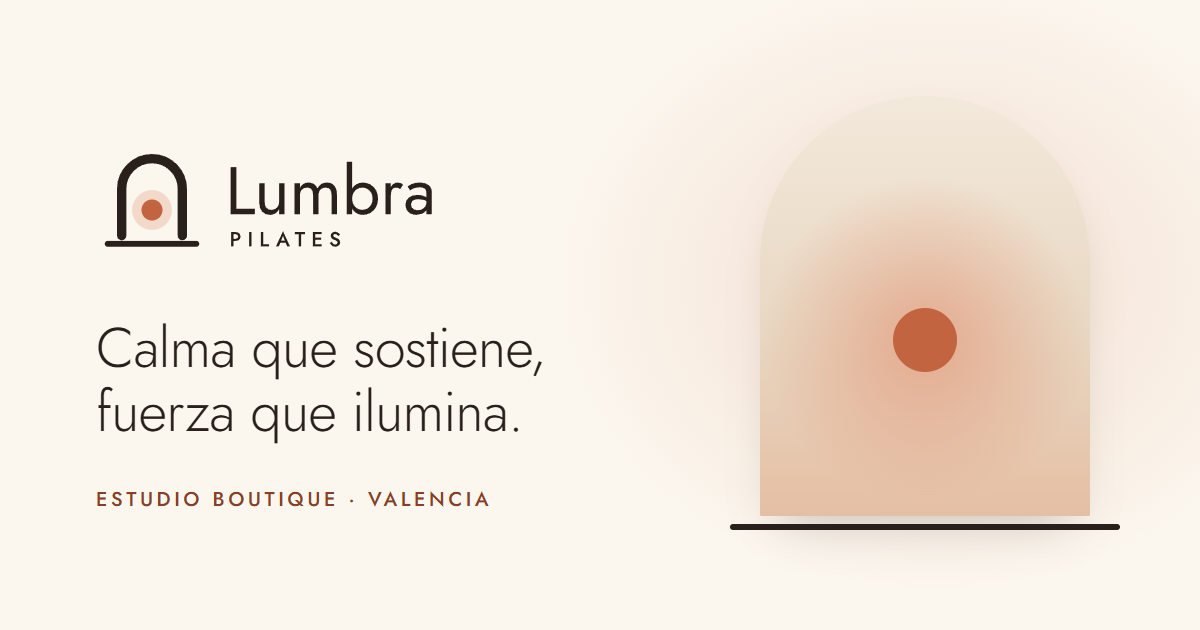
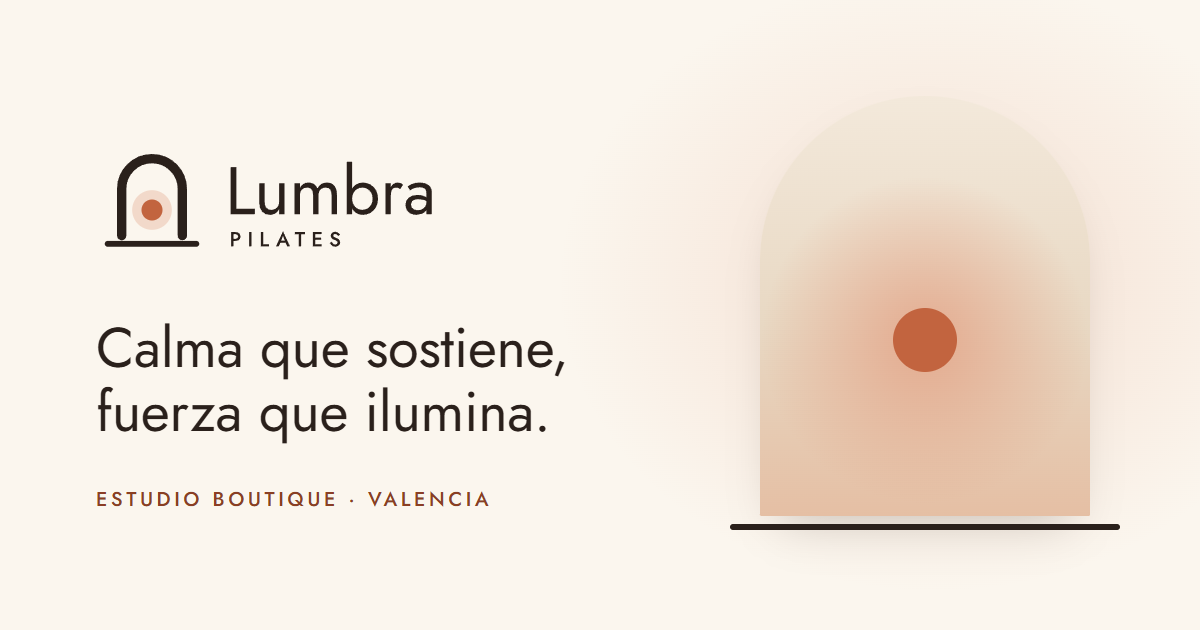
style: titulares en Jost 400

Changed region(s): [[0.0617, 0.5127, 0.4933, 0.6937]]

diff --git a/src/features/public/home/Hero.tsx b/src/features/public/home/Hero.tsx
@@ -31,7 +31,7 @@ function NextClassCard({ state }: { state: HomeState }) {
             {firstDay.relation === 'hoy' ? 'Próxima clase hoy' : `Próxima clase${SEP}${dayHeading(firstDay)}`}
           </p>
           <p className="mt-3 flex flex-wrap items-baseline gap-x-3">
-            <span className="text-3xl font-light">{formatTime(next.startsAt)}</span>
+            <span className="text-3xl">{formatTime(next.startsAt)}</span>
             <span className="font-medium">{next.name}</span>
           </p>
           <p className="mt-1 flex flex-wrap items-center gap-x-3 gap-y-1 text-sm text-piedra">
@@ -60,11 +60,22 @@ function NextClassCard({ state }: { state: HomeState }) {
           </div>
         </>
       ) : (
-        <div role="status" className="flex flex-col gap-3">
+        // Mismo ritmo que la tarjeta con datos (etiqueta, hora, datos y fila de 44 px) para que no salte al cargar.
+        <div role="status">
           <span className="sr-only">Cargando la próxima clase…</span>
-          <Skeleton className="h-4 w-32" />
-          <Skeleton className="h-8 w-44" />
-          <Skeleton className="h-4 w-40" />
+          <div className="flex h-[1.1rem] items-center">
+            <Skeleton className="h-3.5 w-32" />
+          </div>
+          <div className="mt-3 flex h-[calc(var(--text-3xl)*1.18)] items-center">
+            <Skeleton className="h-8 w-44" />
+          </div>
+          <div className="mt-1 flex h-[1.45rem] items-center">
+            <Skeleton className="h-3.5 w-40" />
+          </div>
+          <div className="mt-4 flex h-11 items-center justify-between">
+            <Skeleton className="h-6 w-24 rounded-full" />
+            <Skeleton className="h-4 w-20" />
+          </div>
         </div>
       )}
     </div>
@@ -106,7 +117,7 @@ export function Hero({ state }: { state: HomeState }) {
             Muévete despacio.{' '}
             <em className="font-medium text-terracota-600 not-italic">Hazte</em> fuerte.
           </h1>
-          <p className="mt-6 max-w-xl text-2xl font-light text-tinta-700">{SLOGAN}</p>
+          <p className="mt-6 max-w-xl text-2xl text-tinta-700">{SLOGAN}</p>
           <p className="mt-4 max-w-xl text-lg text-tinta-700">
             Clases de reformer y esterilla en grupos pequeños, con instructoras que corrigen cada
             detalle. Reserva tu plaza en un minuto, sin registros.

diff --git a/src/features/public/design-system/DesignSystemPage.tsx b/src/features/public/design-system/DesignSystemPage.tsx
@@ -34,24 +34,25 @@ function Block({ id, title, children }: { id: string; title: string; children: R
   )
 }
 
-/** Jerarquía tipográfica real de la app: el peso 300 solo en text-xl o más. */
+/** Jerarquía tipográfica real de la app: dos pesos, 400 y 500. */
 const TYPE_SCALE: { name: string; spec: string; sample: ReactNode }[] = [
   {
     name: 'Display',
-    spec: 'text-display · 300 · palabra destacada 500',
+    spec: 'text-display · 400 · espaciado −0,01em · palabra destacada 500',
     sample: (
-      <p className="text-display font-light">
+      <p className="text-display">
         <span className="font-medium text-terracota-600">Hazte</span> fuerte.
       </p>
     ),
   },
-  { name: 'Titular de página', spec: 'text-3xl · 300', sample: <p className="text-3xl font-light">Horario semanal</p> },
-  { name: 'Titular de bloque', spec: 'text-2xl · 300', sample: <p className="text-2xl font-light">Plazas confirmadas</p> },
+  { name: 'Titular de página', spec: 'text-3xl · 400 · espaciado −0,005em', sample: <p className="text-3xl">Horario semanal</p> },
+  { name: 'Titular de bloque', spec: 'text-2xl · 400', sample: <p className="text-2xl">Plazas confirmadas</p> },
   {
     name: 'Subtítulo',
-    spec: 'text-2xl · 300 (text-lg o menos · 400)',
-    sample: <p className="text-2xl font-light text-tinta-700">Calma que sostiene, fuerza que ilumina.</p>,
+    spec: 'text-2xl · 400',
+    sample: <p className="text-2xl text-tinta-700">Calma que sostiene, fuerza que ilumina.</p>,
   },
+  { name: 'Cifras grandes', spec: 'text-3xl · 400 · cifras tabulares', sample: <p className="text-3xl tabular-nums">18:30</p> },
   {
     name: 'Texto',
     spec: 'text-base · 400',
@@ -152,10 +153,10 @@ export function DesignSystemPage() {
             <img src="/favicon.svg" alt="Favicon de Lumbra" width="48" height="48" className="size-12" />
           </Card>
           <Card className="flex flex-col justify-center gap-1 py-8">
-            <p className="text-3xl font-light">
+            <p className="text-3xl">
               Jost <span className="font-medium text-terracota-600">variable</span>
             </p>
-            <p className="text-piedra">Una sola familia, tres pesos: 300, 400 y 500.</p>
+            <p className="text-piedra">Una sola familia, dos pesos: 400 y 500.</p>
           </Card>
         </div>
       </Block>

diff --git a/src/styles/tokens.css b/src/styles/tokens.css
@@ -26,13 +26,12 @@
   --color-info-50: #e4ebf1;
 
   /* Tipografía: una sola familia, Jost.
-     Jerarquía: titulares 300 (solo en text-xl o más), texto 400, botones y etiquetas 500. */
+     Jerarquía: titulares, cifras grandes y texto 400; palabra destacada, botones y etiquetas 500. */
   --font-*: initial;
   --font-sans: 'Jost', 'Jost Fallback', system-ui, -apple-system, 'Segoe UI', sans-serif;
 
   /* Solo los pesos de la jerarquía: no existen utilidades para otros. */
   --font-weight-*: initial;
-  --font-weight-light: 300;
   --font-weight-normal: 400;
   --font-weight-medium: 500;
 
@@ -49,14 +48,14 @@
   --text-xl--line-height: 1.35;
   --text-2xl: clamp(1.5rem, 1.3rem + 0.9vw, 1.875rem);
   --text-2xl--line-height: 1.28;
-  --text-2xl--letter-spacing: -0.01em;
   --text-3xl: clamp(1.875rem, 1.5rem + 1.8vw, 2.75rem);
   --text-3xl--line-height: 1.18;
-  --text-3xl--letter-spacing: -0.015em;
+  --text-3xl--letter-spacing: -0.005em;
   /* El mínimo se limita por el ancho para que una palabra no desborde a 320 px con texto grande. */
-  --text-display: clamp(min(2.5rem, 12vw), 1rem + 6vw, 4.75rem);
+  /* El máximo deja «Muévete despacio.» en una línea dentro de la columna del hero (36 rem) con Jost 400. */
+  --text-display: clamp(min(2.5rem, 12vw), 1rem + 6vw, 4.5rem);
   --text-display--line-height: 1.08;
-  --text-display--letter-spacing: -0.02em;
+  --text-display--letter-spacing: -0.01em;
 
   --tracking-wide: 0.08em;
   --tracking-widest: 0.18em;

diff --git a/src/styles/fonts.css b/src/styles/fonts.css
@@ -1,10 +1,10 @@
 /* Tipografía de la marca: Jost variable (licencia OFL), alojada en el proyecto.
-   Un solo archivo woff2 con el subconjunto latino cubre los pesos usados (300, 400 y 500).
+   Un solo archivo woff2 con el subconjunto latino cubre los pesos usados (400 y 500).
    Se precarga desde index.html (plugin en vite.config.ts). */
 @font-face {
   font-family: 'Jost';
   font-style: normal;
-  font-weight: 300 500;
+  font-weight: 400 500;
   font-display: swap;
   src: url('@fontsource-variable/jost/files/jost-latin-wght-normal.woff2') format('woff2');
   unicode-range:
@@ -13,17 +13,8 @@
 }
 
 /* Respaldo con las métricas de Jost para que el cambio de fuente al cargar no mueva el diseño.
-   Jost se estrecha al aligerarse y Arial no, así que hay una cara por peso, cada una con el ancho medio
+   Jost se ensancha con el peso y Arial no, así que hay una cara por peso, cada una con el ancho medio
    de ese peso (medido en el archivo); ascendente y descendente se compensan con el mismo factor. */
-@font-face {
-  font-family: 'Jost Fallback';
-  font-weight: 300;
-  src: local('Arial');
-  size-adjust: 92.3%;
-  ascent-override: 115.92%;
-  descent-override: 40.63%;
-  line-gap-override: 0%;
-}
 @font-face {
   font-family: 'Jost Fallback';
   font-weight: 400;

diff --git a/src/components/schedule/SessionCard.tsx b/src/components/schedule/SessionCard.tsx
@@ -60,7 +60,7 @@ function PastSessionCard({ session, now, compact, Heading }: { session: ClassSes
   // Con el texto muy grande, si al lado de la hora no quedan 8 rem, nombre y estado bajan debajo.
   return (
     <article className={cn(card, 'flex flex-wrap items-center gap-x-4 gap-y-1 px-4 py-2.5 sm:px-5')}>
-      <p className="w-[5ch] shrink-0 text-xl font-light leading-none tabular-nums">{timeTag}</p>
+      <p className="w-[5ch] shrink-0 text-xl leading-none tabular-nums">{timeTag}</p>
       <div className="flex min-w-[min(8rem,100%)] flex-1 flex-col sm:flex-row sm:flex-wrap sm:items-center sm:justify-between sm:gap-x-4">
         {heading}
         {label}
@@ -119,7 +119,7 @@ export function SessionCard({ session, now, variant = 'row', onOpen, to, heading
       {/* Desde sm, ancho fijo en «ch» (crece con el texto) y cifras tabulares: los nombres empiezan a la misma altura. */}
       <p
         className={cn(
-          'shrink-0 font-light leading-none tabular-nums',
+          'shrink-0 leading-none tabular-nums',
           compact ? 'text-xl' : 'text-2xl sm:w-[5ch] sm:self-start sm:pt-0.5 sm:text-3xl',
           !interactive && 'text-tinta-700',
         )}

diff --git a/src/features/admin/overview/OverviewPage.tsx b/src/features/admin/overview/OverviewPage.tsx
@@ -28,7 +28,7 @@ function MetricCard({ icon: Icon, label, value, detail }: { icon: LucideIcon; la
         </span>
         {label}
       </p>
-      <p className="mt-2 text-3xl font-light tabular-nums">{value}</p>
+      <p className="mt-2 text-3xl tabular-nums">{value}</p>
       <p className="text-sm text-piedra">{detail}</p>
     </Card>
   )
@@ -158,7 +158,7 @@ export function OverviewPage() {
               <ul className="divide-y divide-arena-200">
                 {today.state.data.map((session) => (
                   <li key={session.id} className="flex flex-wrap items-center gap-x-4 gap-y-2 py-3">
-                    <span className="w-[5ch] shrink-0 text-xl font-light tabular-nums">{formatTime(session.startsAt)}</span>
+                    <span className="w-[5ch] shrink-0 text-xl tabular-nums">{formatTime(session.startsAt)}</span>
                     <div className="min-w-[min(10rem,100%)] flex-1">
                       <Link
                         to={`/estudio/asistentes?clase=${session.id}`}

diff --git a/src/index.css b/src/index.css
@@ -19,16 +19,16 @@
        una fila sin sitio podría partir el texto letra a letra, así que esas filas se apilan con el texto muy
        grande (consultas de contenedor en rem) y la verificación en Edge busca texto aplastado. */
     overflow-wrap: anywhere;
-    /* Solo se carga la fuente normal en 300–500: el navegador no debe inventar cursivas ni negritas. */
+    /* Solo se carga la fuente normal en 400–500: el navegador no debe inventar cursivas ni negritas. */
     font-synthesis: none;
   }
 
-  /* Titulares ligeros; el espaciado de letras de cada nivel va en su token de tamaño.
-     Los de text-lg o menos los sobrescriben con su propio peso (400 o 500). */
+  /* Titulares en 400; el espaciado de letras de cada nivel va en su token de tamaño.
+     Los títulos pequeños de tarjetas y listas lo sobrescriben con 500. */
   h1,
   h2,
   h3 {
-    @apply font-light text-balance;
+    @apply font-normal text-balance;
   }
 
   b,

diff --git a/src/features/public/schedule/DayPicker.tsx b/src/features/public/schedule/DayPicker.tsx
@@ -74,7 +74,7 @@ export function DayPicker({ days, selected, onSelect, panelId }: DayPickerProps)
             <span className={cn('text-xs font-medium tracking-wide uppercase', !isSelected && 'text-piedra')}>
               {day.isToday ? 'Hoy' : formatShortWeekday(day.date)}
             </span>
-            <span className="text-2xl font-light leading-tight tabular-nums">{day.date.day}</span>
+            <span className="text-2xl leading-tight tabular-nums">{day.date.day}</span>
             <span className={cn('text-xs whitespace-nowrap', isSelected ? 'text-white/90' : 'text-piedra')}>
               {plural(day.sessions.length, 'clase')}
             </span>

diff --git a/src/features/admin/sessions/SessionsPage.tsx b/src/features/admin/sessions/SessionsPage.tsx
@@ -68,7 +68,7 @@ function SessionRow({
     // Con el texto muy grande (la lista, con `@container`, mide menos de 12 rem), el menú entra en el flujo junto
     // a la hora y los datos bajan a ancho completo, sin reservar el hueco del menú.
     <li className="relative flex flex-wrap items-start gap-x-5 gap-y-3 py-4 pr-12 md:pr-0 @max-[12rem]:pr-0">
-      <p className="w-[5ch] shrink-0 text-2xl font-light leading-none tabular-nums">
+      <p className="w-[5ch] shrink-0 text-2xl leading-none tabular-nums">
         {formatTime(session.startsAt)}
       </p>
       <div className="min-w-[min(12rem,100%)] flex-1 @max-[12rem]:order-last @max-[12rem]:basis-full">

diff --git a/src/features/public/home/HowItWorksSection.tsx b/src/features/public/home/HowItWorksSection.tsx
@@ -32,7 +32,7 @@ export function HowItWorksSection() {
                   <Icon aria-hidden="true" strokeWidth={1.75} className="size-6" />
                 </span>
                 {/* Decorativo: el orden ya lo da la lista. terracota-500 sobre crema: 3,76:1. */}
-                <span aria-hidden="true" className="text-3xl font-light text-terracota-500">
+                <span aria-hidden="true" className="text-3xl text-terracota-500">
                   {i + 1}
                 </span>
               </div>

diff --git a/src/features/public/home/TeamSection.tsx b/src/features/public/home/TeamSection.tsx
@@ -18,7 +18,7 @@ function Avatar({ initials, tone }: { initials: string; tone: string }) {
       className={cn('relative grid h-24 w-20 shrink-0 place-items-center overflow-hidden rounded-arch', tone)}
     >
       <span className="absolute -bottom-6 size-14 rounded-full bg-current opacity-15" />
-      <span className="relative text-2xl font-light">{initials}</span>
+      <span className="relative text-2xl">{initials}</span>
     </span>
   )
 }

diff --git a/README.md b/README.md
@@ -64,14 +64,16 @@ Build de producción (gzip):
 
 ### Tipografía
 
-Una sola familia, **Jost** variable (`@fontsource-variable/jost` 5.3.0), solo el subconjunto latino y un único woff2 que cubre los pesos usados: 300 en titulares de `text-xl` o más, 400 en el texto y 500 en botones y etiquetas. Lleva `font-display: swap`, se precarga desde `index.html` y tiene un respaldo sobre Arial con `size-adjust` por peso para que el cambio de fuente no mueva el diseño.
+Una sola familia, **Jost** variable (`@fontsource-variable/jost` 5.3.0), solo el subconjunto latino y un único woff2 que cubre los dos pesos usados: 400 en titulares, cifras grandes y texto, y 500 en la palabra destacada, botones, etiquetas y títulos de tarjeta. Lleva `font-display: swap`, se precarga desde `index.html` y tiene un respaldo sobre Arial con `size-adjust` por peso para que el cambio de fuente no mueva el diseño.
 
 | Fuentes | Archivos | Peso |
 | --- | --- | --- |
 | Antes: Fraunces 500 normal y cursiva, Figtree 400 y 600 | 4 woff2 | 63 816 B (62,3 KiB) |
-| Ahora: Jost variable 300–500 | 1 woff2 | 26 576 B (26,0 KiB), un 58 % menos |
+| Ahora: Jost variable 400–500 | 1 woff2 | 26 576 B (26,0 KiB), un 58 % menos |
 
-CLS de la portada medido en Edge: 0 a 320 y 390 px, 0,0003 a 768 px y 0,0001 a 1280 px.
+Los titulares llevan muy poco espaciado negativo (−0,01em en el display, −0,005em en `text-3xl`, nada en `text-2xl`), y el display llega como máximo a 4,5rem para que «Muévete despacio.» quepa en una línea en escritorio. El esqueleto de la tarjeta «Próxima clase» reserva el mismo alto que la tarjeta con datos.
+
+CLS de la portada medido en Edge: 0 a 390 px y a 320 px con el texto al 200 %, y 0,0001 a 1280 px.
 
 ## Reglas de negocio
 
